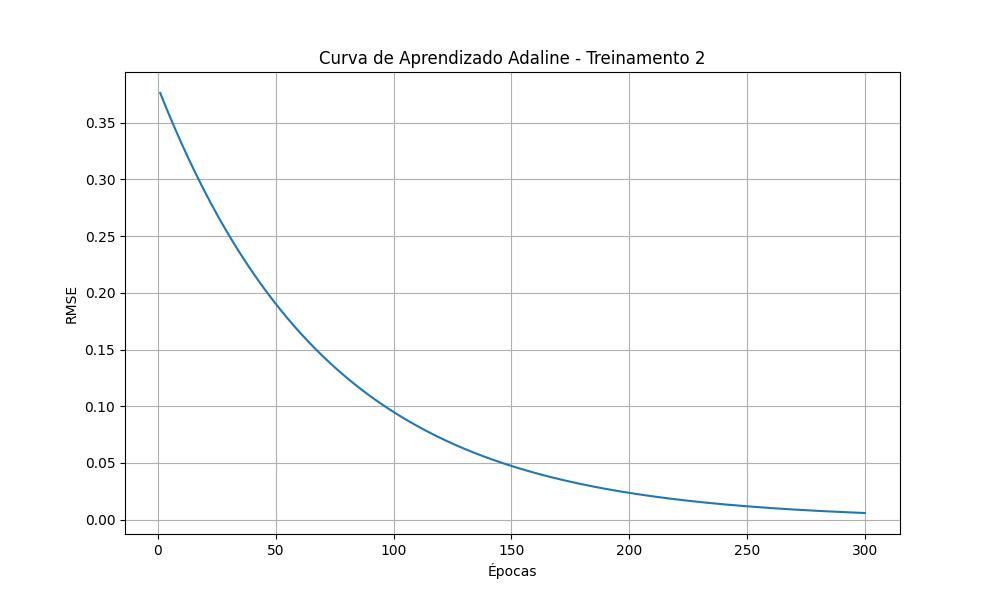
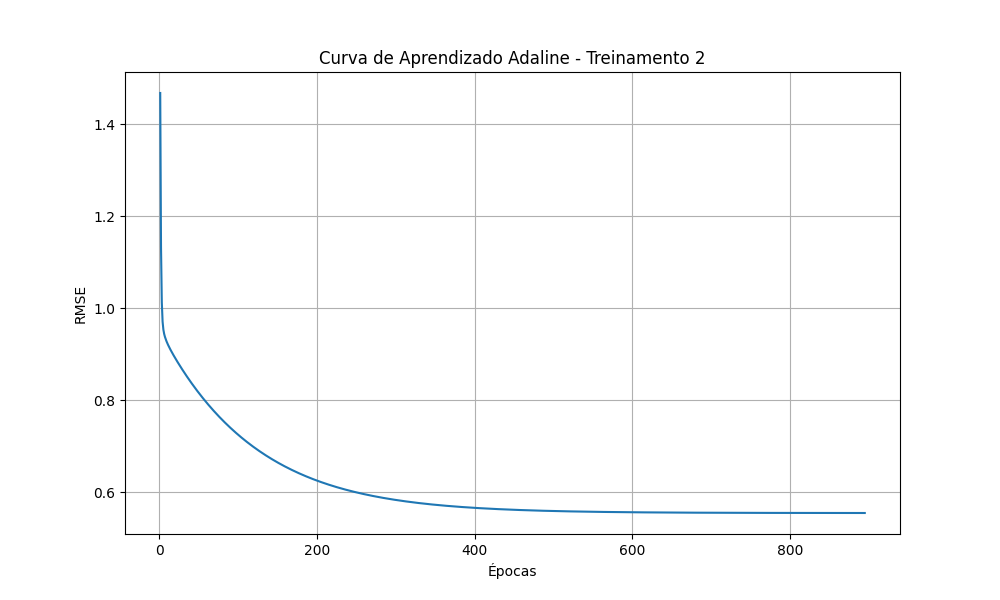
Refactor data processing in Adaline and classification scripts; remove redundant data handling and update model training logic

diff --git a/adaline.py b/adaline.py
@@ -3,7 +3,6 @@ import random
 import os
 import matplotlib.pyplot as plt
 from math import sqrt
-import numpy as np
 from sklearn.metrics import mean_squared_error
 
 import resultados
@@ -16,29 +15,14 @@ RESULTADOS_PATH = os.path.join(os.getcwd(), './datasets/resultados.xlsx')
 df_treinamento = pd.read_excel(LOCAL_PATH)
 df_resultados = pd.read_excel(RESULTADOS_PATH)
 
-# =====================================================================
-# --- INÍCIO DO TRATAMENTO DE DADOS (CORREÇÃO DO ERRO) ---
-# =====================================================================
-# Lista das colunas numéricas que o modelo vai utilizar
-colunas_numericas = ['x1', 'x2', 'x3', 'x4', 'd']
-
-for col in colunas_numericas:
-    df_treinamento[col] = df_treinamento[col].astype(str).str.replace(',', '.').apply(pd.to_numeric, errors='coerce')
-
-# Remove qualquer linha inteira que tenha ficado com NaN (exclui a linha com defeito)
-df_treinamento = df_treinamento.dropna()
-
-
 treinamento = 1
-taxaDeAprendizagem = 0.0025 
-precisao = 1e-6
+taxaDeAprendizagem = 0.0025
+precisao = 1e-6 
 
 resultados.limpar(df_resultados)
 
 while treinamento <= 5:
     epocas = 0
-    # Inicialização de 4 pesos para x1, x2, x3, x4
-    # Ajustei para (0, 1) conforme o PDF do seu projeto pede.
     pesos = [random.uniform(0, 1) for _ in range(4)] 
     limiarDeAtivacao = random.uniform(0, 1)
     rmse_por_epoca = []
@@ -51,54 +35,45 @@ while treinamento <= 5:
         epocas += 1
         soma_erro_quadratico = 0
 
-        # Eanterior recebe o Eqm da época passada
         for index, row in df_treinamento.iterrows():
             x = [row['x1'], row['x2'], row['x3'], row['x4']] 
             d = row['d']
             
-            # 1. Saída do combinador linear (u)
+            # Cálculo da saída linear
             u = sum(w * xi for w, xi in zip(pesos, x)) - limiarDeAtivacao
             
-            # 2. Cálculo do erro linear (d - u)
+            # Erro linear da Regra Delta
             erro_linear = d - u
             
-            # 3. Regra Delta: Atualização discreta dos pesos
+            # Atualização dos pesos
             for i in range(len(pesos)):
                 pesos[i] = pesos[i] + taxaDeAprendizagem * erro_linear * x[i]
             
-            # Atualização do limiar considerando a entrada fixa -1 
             limiarDeAtivacao = limiarDeAtivacao + taxaDeAprendizagem * erro_linear * (-1)
-            
             soma_erro_quadratico += (erro_linear ** 2)
 
-        # 4. Cálculo do Erro Médio Quadrático (Eqm) atual
         mse_atual = soma_erro_quadratico / len(df_treinamento)
         rmse_epoca = sqrt(mse_atual)
         rmse_por_epoca.append(rmse_epoca)
 
-        # Critério de parada: Diferença absoluta entre Eqm atual e anterior 
         if abs(mse_atual - mse_anterior) <= precisao:
             break
         
         mse_anterior = mse_atual
 
-    # Finalização e Classificação Final (Fase de Operação)
     pesos_finais = pesos.copy()
     for index, row in df_treinamento.iterrows():
         x = [row['x1'], row['x2'], row['x3'], row['x4']]
         u = sum(w * xi for w, xi in zip(pesos_finais, x)) - limiarDeAtivacao
-        # Função de ativação para gerar saída binária y
         y = 1 if u >= 0 else -1
         df_treinamento.at[index, f'Y_{treinamento}'] = y
     
     df_treinamento.to_excel(LOCAL_PATH, index=False)
     print(f'Treinamento {treinamento} concluído em {epocas} épocas.')
 
-    # Gravação dos resultados finais atualizados para 4 pesos
     resultados.preencher_w_finais(df_resultados, treinamento, pesos_finais, epocas, limiarDeAtivacao)
     classificar.validar(pesos_finais, limiarDeAtivacao, treinamento)
     
-    # Geração do gráfico de RMSE (Evolução do erro médio quadrático) 
     plt.figure(figsize=(10, 6))
     plt.plot(range(1, len(rmse_por_epoca)+1), rmse_por_epoca)
     plt.title(f'Curva de Aprendizado Adaline - Treinamento {treinamento}')
@@ -106,7 +81,6 @@ while treinamento <= 5:
     plt.ylabel('RMSE')
     plt.grid(True)
     
-    # Garantia de que a pasta existe antes de tentar salvar o gráfico
     grafico_dir = './graphics/Evolucao_do_erro/'
     if not os.path.exists(grafico_dir):
         os.makedirs(grafico_dir)
@@ -115,6 +89,5 @@ while treinamento <= 5:
     plt.close()
                 
     treinamento += 1
-
-# Por fim, chama o cálculo de métricas (que lê a aba de validação atualizada)
+        
 metricas.calcular()

diff --git a/classificar.py b/classificar.py
@@ -8,15 +8,6 @@ def validar(pesos, limiarDeAtivacao, treino):
     df_validacao = pd.read_excel(PATH)
     
 
-    colunas_numericas = ['x1', 'x2', 'x3', 'x4']
-    
-    for col in colunas_numericas:
-        if col in df_validacao.columns:
-            # Converte para string, troca vírgula por ponto e força para float
-            df_validacao[col] = df_validacao[col].astype(str).str.replace(',', '.').apply(pd.to_numeric, errors='coerce')
-
-    df_validacao[colunas_numericas] = df_validacao[colunas_numericas].fillna(0)
-
 
     # Inicializa a coluna de resultados para o treinamento atual
     df_validacao[f'Y_T{treino}'] = pd.NA 
